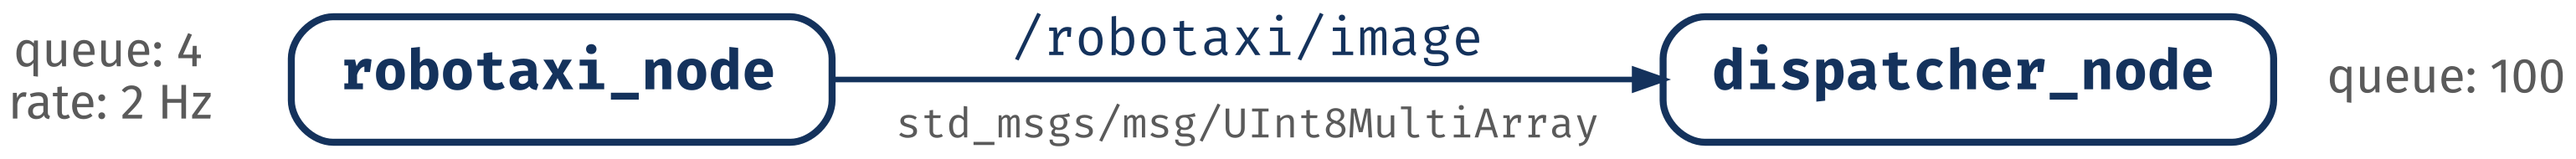
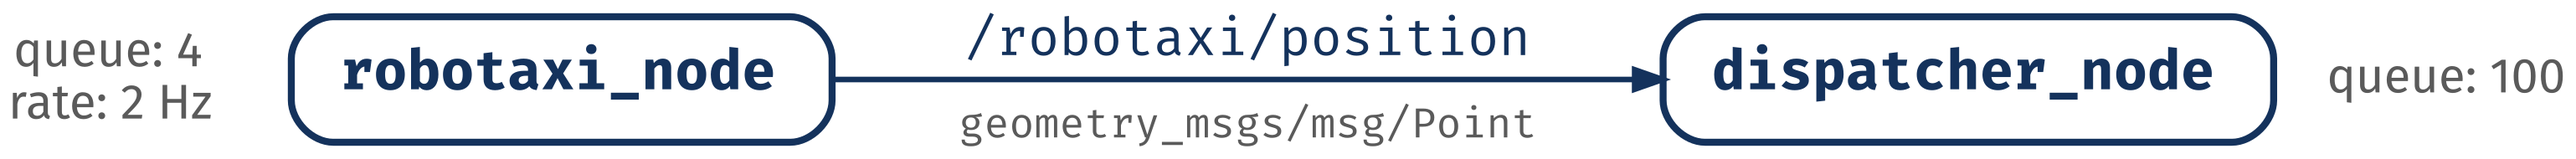
L10: sync Scenario 4 with the deck
The Scenario 4 graph uses the Point topic, as the other scenarios do. The
cut Message Size and Keep All slide becomes a More detail box, with its
rewritten text.

Changed region(s): [[0.3432, 0.6579, 0.624, 0.9211], [0.3744, 0.1053, 0.5928, 0.4211], [0.468, 0.0789, 0.5304, 0.1316]]

diff --git a/docs/source/lectures/lecture10/l10_lecture.rst b/docs/source/lectures/lecture10/l10_lecture.rst
@@ -2545,13 +2545,13 @@ Scenario 4: the Publisher's Queue Fills Up
 """"""""""""""""""""""""""""""""""""""""""
 
 .. figure:: /_static/images/l10/scenario_4.png
-   :alt: robotaxi_node on the left, with queue: 4 and rate: 2 Hz in gray beside it, and dispatcher_node on the right, with queue: 100 in gray beside it. An arrow goes from robotaxi_node to dispatcher_node, with the topic name /robotaxi/image above it and the message type std_msgs/msg/UInt8MultiArray below it.
+   :alt: robotaxi_node on the left, with queue: 4 and rate: 2 Hz in gray beside it, and dispatcher_node on the right, with queue: 100 in gray beside it. An arrow goes from robotaxi_node to dispatcher_node, with the topic name /robotaxi/position above it and the message type geometry_msgs/msg/Point below it.
    :align: center
    :width: 95%
 
    The queues of the test: 4 at the publisher, 100 at the subscriber.
 
-With reliable delivery, the default, the publisher keeps each message until every subscriber acknowledges it (`Fast DDS: Standard QoS Policies <https://fast-dds.docs.eprosima.com/en/latest/fastdds/dds_layer/core/policy/standardQosPolicies.html>`_). Here a debugger breakpoint freezes the dispatcher's process from 2.8 s to 12.9 s. Chosen: 100 KB messages (an image) and the queues in the graph.
+With reliable delivery, the default, the publisher keeps each message until every subscriber acknowledges it (`Fast DDS: Standard QoS Policies <https://fast-dds.docs.eprosima.com/en/latest/fastdds/dds_layer/core/policy/standardQosPolicies.html>`_). Here a debugger breakpoint freezes the dispatcher's process from 2.8 s to 12.9 s. The queues in the graph are chosen for this test.
 
 .. list-table::
    :header-rows: 1
@@ -2613,14 +2613,12 @@ The publisher's queue fills when acknowledgements stop coming: a subscriber that
 
 Scenario 3 filled the subscriber's queue; this one fills the publisher's.
 
-Scenario 4: Message Size and Keep All
-"""""""""""""""""""""""""""""""""""""
+.. dropdown:: More detail: message size and keep all
+   :class-container: more-detail
+   :icon: info
 
-.. admonition:: What scenario 4 shows
-   :class: key-box
-
-   - **Small messages hide it:** with messages of 10 characters, the same 10 s freeze lost nothing. The receive buffer, 212,992 bytes here, held all of them.
-   - **Keep all:** ``publish`` blocks "until the oldest sample has been acknowledged by all readers and can be removed", up to a maximum blocking time, 100 ms by default, then returns an error (`Fast DDS: Standard QoS Policies <https://fast-dds.docs.eprosima.com/en/latest/fastdds/dds_layer/core/policy/standardQosPolicies.html>`_).
+   - **Small messages show no loss:** with 10-character messages, the same 10 s freeze lost nothing. The operating system keeps a receive buffer for the dispatcher, 212,992 bytes on this computer, and it held every message until the dispatcher ran again.
+   - **Keep all instead of keep last:** the publisher keeps every message that is not acknowledged. When its queue is full, ``publish`` waits "until the oldest sample has been acknowledged by all readers and can be removed" (`Fast DDS: Standard QoS Policies <https://fast-dds.docs.eprosima.com/en/latest/fastdds/dds_layer/core/policy/standardQosPolicies.html>`_). It waits at most 100 ms by default, then returns an error.
 
 Wrap-Up
 -------
